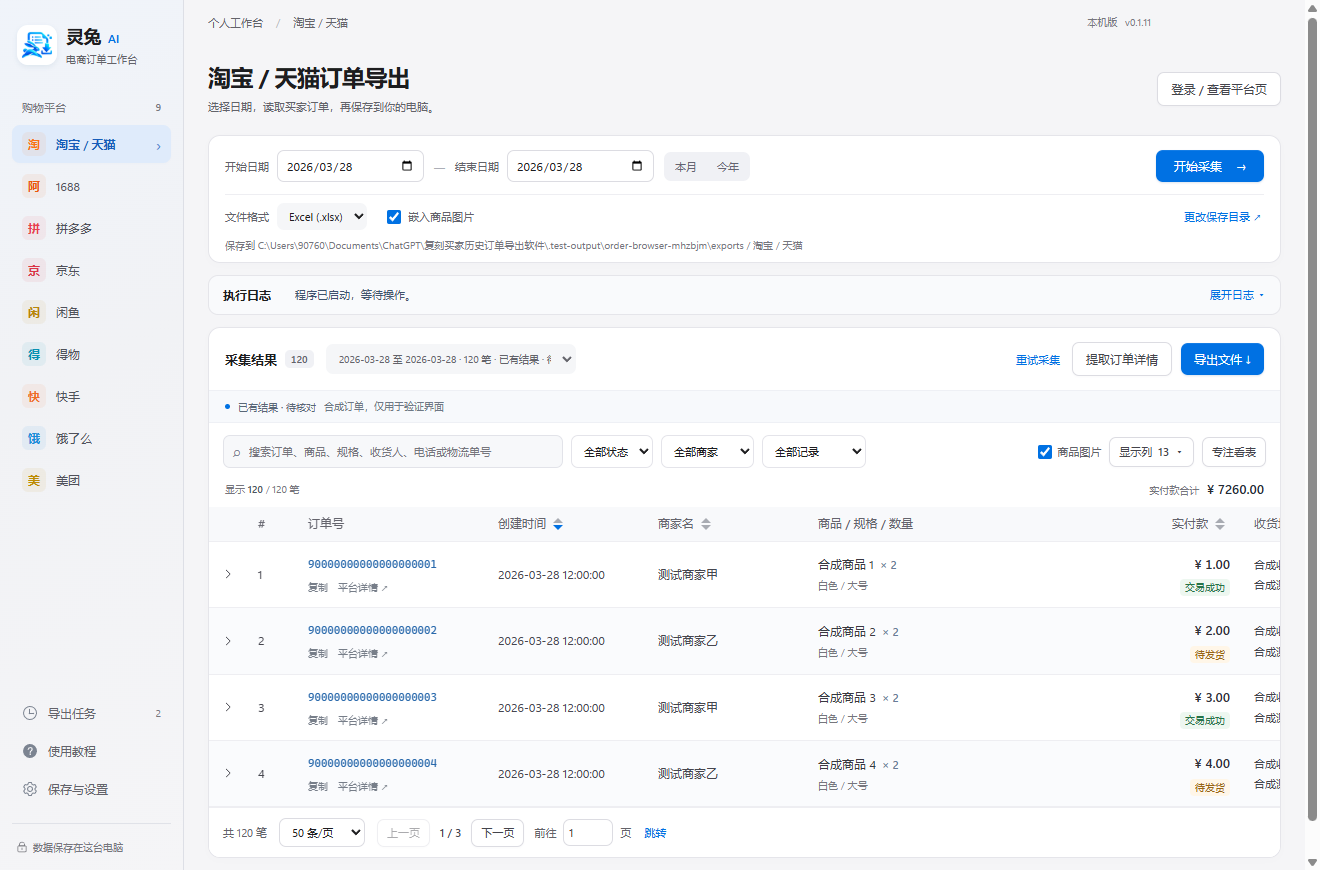
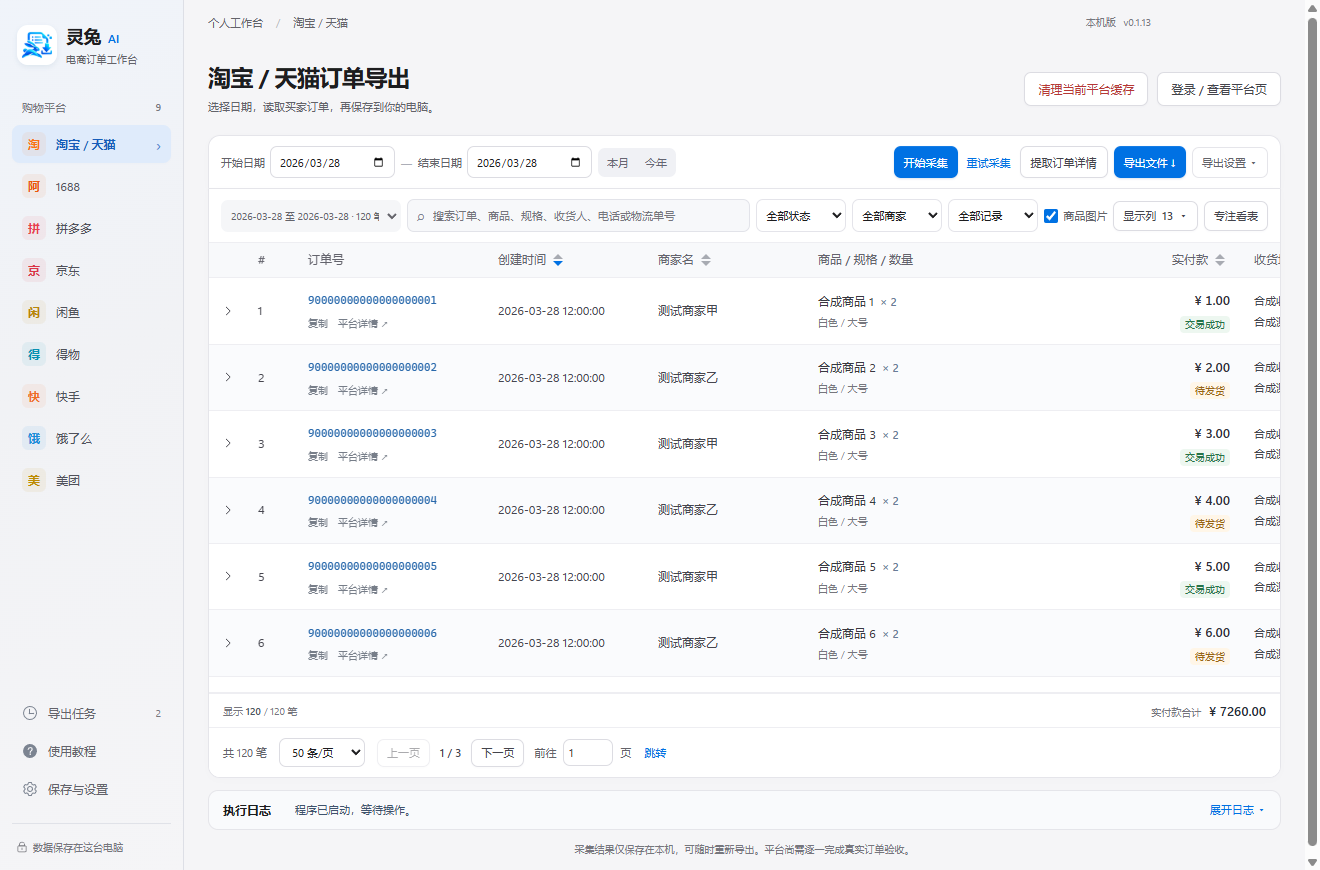
style: 将采集导出筛选合并为两行操作栏 v0.1.13

diff --git a/src/renderer/src/App.vue b/src/renderer/src/App.vue
@@ -63,20 +63,16 @@ onUnmounted(()=>{off?.();offUpdate?.()})
               <div class="button-row"><button class="secondary" :disabled="busy" @click="action(()=>desk.proxyStart(selected),'本机监听已开启，地址 127.0.0.1:17869。请完成下方证书与代理设置。')">开启辅助采集</button><button class="text-button" :disabled="!state?.proxy.running" @click="action(()=>desk.certificate())">打开本机证书</button><button class="text-button" @click="action(()=>desk.proxySettings())">打开代理设置</button></div>
               <details><summary>首次设置步骤与停止方式</summary><ol><li>开启辅助采集后，打开证书，在 Windows 中手动将其导入当前用户的受信任根证书。仅用于本机采集。</li><li>记下原来的代理设置，将手动代理临时设为 <code>127.0.0.1:17869</code>。当前程序尚不自动改动系统设置。</li><li>点击下方“开始采集”，再打开对应微信小程序的订单列表并向下翻页。</li><li>结束后先恢复原来的系统代理设置，再停止辅助采集或退出软件。</li></ol><button class="text-button" @click="action(()=>desk.proxyStop(),'本机监听已停止，请确认系统代理已恢复。')">停止辅助采集</button></details>
             </section>
-            <section class="config-card">
-              <div class="section-head"><h2>导出范围</h2><span>按下单日期 · 全部订单状态</span></div>
-              <div class="form-row"><label>开始日期<input v-model="from" type="date" :max="to"></label><span class="range-dash">—</span><label>结束日期<input v-model="to" type="date" :min="from"></label><div class="quick-date"><button @click="from=today.slice(0,7)+'-01';to=today">本月</button><button @click="from=today.slice(0,4)+'-01-01';to=today">今年</button></div><button class="primary start" :disabled="busy || task?.status==='running'" @click="start">{{task?.status==='running'?'正在采集…':'开始采集'}} <span>→</span></button></div>
-              <p class="date-hint">按订单的下单日期查询。历史订单请调整起止日期，或点击“今年”。</p>
-              <div class="config-bottom"><div><label class="inline-label">文件格式<select v-model="format"><option value="xlsx">Excel (.xlsx)</option><option value="csv">CSV (.csv)</option></select></label><label class="checkbox"><input v-model="images" type="checkbox" :disabled="format==='csv'">嵌入商品图片</label></div><button class="text-button" @click="choose">{{state?.outputDir?'更改保存目录':'选择保存目录'}} ↗</button></div>
-              <div v-if="state?.outputDir" class="folder-path" :title="state.outputDir">保存到 {{state.outputDir}} / {{platform?.name}}</div>
+            <section class="config-card compact-controls" aria-label="采集与导出操作">
+              <div class="form-row"><label>开始日期<input v-model="from" type="date" :max="to"></label><span class="range-dash">—</span><label>结束日期<input v-model="to" type="date" :min="from"></label><div class="quick-date"><button @click="from=today.slice(0,7)+'-01';to=today">本月</button><button @click="from=today.slice(0,4)+'-01-01';to=today">今年</button></div><div class="collection-actions"><button v-if="task?.status!=='running'" class="primary start" :disabled="busy" @click="start">开始采集</button><button class="secondary" v-if="task && task.status==='running'" @click="action(()=>desk.pause(taskId))">暂停</button><button class="secondary" v-if="task && ['paused','needs_login','failed'].includes(task.status)" @click="action(()=>desk.resume(taskId))">继续采集</button><button class="text-button" v-if="task && task.status==='partial'" :disabled="busy" @click="action(()=>desk.retry(taskId))">重试采集</button><button v-if="selected==='taobao'" class="secondary" :disabled="!records.length||busy||task?.status==='running'" @click="enrich">提取订单详情</button><button class="primary" :disabled="!records.length||busy||task?.status==='running'" title="导出本任务全部订单，表格筛选不改变导出范围" @click="exportFile">{{busy?'处理中…':'导出文件'}} ↓</button><button v-if="task?.status==='running'" class="text-button" @click="action(()=>desk.finish(taskId))">结束读取</button><details class="export-options"><summary>导出设置 ▾</summary><div class="export-options-panel"><label class="inline-label">文件格式<select v-model="format"><option value="xlsx">Excel (.xlsx)</option><option value="csv">CSV (.csv)</option></select></label><label class="checkbox"><input v-model="images" type="checkbox" :disabled="format==='csv'">嵌入商品图片</label><button class="text-button" @click="choose">{{state?.outputDir?'更改保存目录':'选择保存目录'}} ↗</button><p :title="state?.outputDir">{{state?.outputDir||'首次导出时选择保存目录'}}</p></div></details></div></div>
             </section>
-            <ExecutionLog v-if="state?.showExecutionLog" ref="executionPanel" :platform="selected" :compact="records.length>0&&task?.status!=='running'" />
-            <section class="results-card">
-              <div class="results-header"><div class="results-heading"><h2>采集结果 <span class="count">{{records.length}}</span></h2><select v-if="tasks.length" :value="taskId" aria-label="查看历史采集任务" :disabled="busy||task?.status==='running'" @change="chooseTask"><option v-for="t in tasks" :key="t.id" :value="t.id">{{t.from}} 至 {{t.to}} · {{t.count}} 笔 · {{labels[t.status]}}</option></select><p v-else>采集后，你的订单会显示在这里</p></div><div class="button-row"><button class="secondary" v-if="task && task.status==='running'" @click="action(()=>desk.pause(taskId))">暂停</button><button class="secondary" v-if="task && ['paused','needs_login','failed'].includes(task.status)" @click="action(()=>desk.resume(taskId))">继续采集</button><button class="text-button" v-if="task && task.status==='partial'" :disabled="busy" @click="action(()=>desk.retry(taskId))">重试采集</button><button v-if="selected==='taobao'" class="secondary" :disabled="!records.length||busy||task?.status==='running'" @click="enrich">提取订单详情</button><button class="primary" :disabled="!records.length||busy" title="导出本任务全部订单，表格筛选不改变导出范围" @click="exportFile">{{busy?'处理中…':'导出文件'}} ↓</button></div></div>
-              <div v-if="task" class="task-strip" :class="task.status"><span class="dot"></span><strong>{{labels[task.status]}}</strong><span>{{task.message}}</span><button v-if="task.status==='running'" @click="action(()=>desk.finish(taskId))">结束本次读取</button></div>
+            <section class="results-card compact-results">
+              <div v-if="!records.length" class="results-header"><h2>采集结果 <span class="count">{{records.length}}</span></h2><select v-if="tasks.length" :value="taskId" aria-label="查看历史采集任务" :disabled="busy||task?.status==='running'" @change="chooseTask"><option v-for="t in tasks" :key="t.id" :value="t.id">{{t.from}} 至 {{t.to}} · {{t.count}} 笔 · {{labels[t.status]}}</option></select></div>
+              <div v-if="task && ['failed','needs_login'].includes(task.status)" class="task-strip" :class="task.status"><span class="dot"></span><strong>{{labels[task.status]}}</strong><span>{{task.message}}</span></div>
               <div v-if="!records.length" class="empty-state"><div class="empty-icon"><svg viewBox="0 0 72 72" fill="none"><rect x="15" y="10" width="42" height="52" rx="8" stroke="currentColor" stroke-width="2"/><path d="M26 26h20M26 36h20M26 46h12" stroke="currentColor" stroke-width="2" stroke-linecap="round"/></svg></div><h3>{{emptyResult?'该日期范围内没有订单':task?.status==='running'?'正在读取订单':'还没有采集订单'}}</h3><p>{{emptyResult?`${task?.from} 至 ${task?.to} 已查询完毕，请选择订单实际的下单日期后重新采集。`:task?.status==='running'?'正在按所选日期查询，请留意上方执行日志。':task?.status==='needs_login'?'请在平台页完成登录或验证，再继续采集。':task?.status==='failed'?task.message:'选择订单下单日期后点击“开始采集”。'}}</p><div class="empty-note">每个平台独立登录 · 原软件数据保持原样</div></div>
-              <OrderTable v-else :orders="records" :platform="selected" :task-id="taskId" :busy="busy||task?.status==='running'" @open-order="openOrder" />
+              <OrderTable v-else :orders="records" :platform="selected" :task-id="taskId" :busy="busy||task?.status==='running'" @open-order="openOrder"><template #toolbar><div class="results-heading"><select :value="taskId" :title="task?.message" aria-label="查看历史采集任务" :disabled="busy||task?.status==='running'" @change="chooseTask"><option v-for="t in tasks" :key="t.id" :value="t.id">{{t.from}} 至 {{t.to}} · {{t.count}} 笔 · {{labels[t.status]}}</option></select></div></template></OrderTable>
             </section>
+            <ExecutionLog v-if="state?.showExecutionLog" ref="executionPanel" :platform="selected" :compact="task?.status!=='running'" />
             <div class="bottom-note">采集结果仅保存在本机，可随时重新导出。平台尚需逐一完成真实订单验收。</div>
           </template>
         </template>

diff --git a/src/renderer/src/OrderTable.vue b/src/renderer/src/OrderTable.vue
@@ -35,7 +35,7 @@ watch(()=>props.platform,loadPreferences,{immediate:true})
 </script>
 <template>
   <section class="order-browser" :class="{'table-focused':focused}" aria-label="订单数据表">
-    <div class="order-toolbar">
+    <div class="order-toolbar"><slot v-if="!focused" name="toolbar" />
       <div class="order-search"><span>⌕</span><input v-model="query" aria-label="搜索订单数据" placeholder="搜索订单、商品、规格、收货人、电话或物流单号"><button v-if="query" aria-label="清除搜索" @click="query=''">×</button></div>
       <select v-model="status" aria-label="订单状态筛选"><option value="">全部状态</option><option v-for="s in statuses" :key="s">{{s}}</option></select>
       <select v-model="shop" aria-label="商家筛选"><option value="">全部商家</option><option v-for="s in shops" :key="s">{{s}}</option></select>
@@ -43,8 +43,8 @@ watch(()=>props.platform,loadPreferences,{immediate:true})
       <button v-if="hasFilter" class="text-button" @click="reset">清空筛选</button>
       <div class="browser-view-tools"><label><input v-model="showImages" type="checkbox" @change="savePreferences">商品图片</label><div class="column-picker"><button class="secondary" :aria-expanded="columnMenu" @click="columnMenu=!columnMenu">显示列 <span>{{visibleColumns.length+1}}</span> ▾</button><div v-if="columnMenu" class="column-menu"><div class="column-menu-head"><strong>列表显示字段</strong><button @click="columnMenu=false" aria-label="关闭列设置">×</button></div><label><input type="checkbox" checked disabled>订单号（固定）</label><label v-for="c in orderColumns" :key="c.key"><input type="checkbox" :checked="visibleKeys.includes(c.key)" @change="toggleColumn(c.key)">{{c.label}}</label><button class="text-button" @click="restoreColumns">恢复默认列</button></div></div><button class="secondary" @click="focused=!focused">{{focused?'退出大表':'专注看表'}}</button></div>
     </div>
-    <div class="order-summary"><span>显示 <strong>{{filtered.length}}</strong> / {{orders.length}} 笔<span v-if="hasFilter" class="filter-note"> · 筛选仅影响浏览，导出仍包含本任务全部订单</span></span><span>实付款合计 <b>{{money(total)}}</b><small v-if="unknownAmounts">（另有 {{unknownAmounts}} 笔金额未获取）</small><span v-if="hint" class="copy-hint" role="status">{{hint}}</span></span></div>
-    <ElTable ref="table" :data="shown" row-key="id" stripe :height="focused?'calc(100vh - 204px)':'max(240px, calc(100vh - 570px))'" :default-sort="{prop:'createdAt',order:'descending'}" :show-overflow-tooltip="true" @sort-change="sort" class="orders-grid" empty-text="没有符合筛选条件的订单，可清空筛选后重试。">
+
+    <ElTable ref="table" :data="shown" row-key="id" stripe :height="focused?'calc(100vh - 204px)':'max(240px, calc(100vh - 420px))'" :default-sort="{prop:'createdAt',order:'descending'}" :show-overflow-tooltip="true" @sort-change="sort" class="orders-grid" empty-text="没有符合筛选条件的订单，可清空筛选后重试。">
       <!-- @vue-generic {Order} -->
       <ElTableColumn type="expand" width="38" fixed="left"><template #default="scope"><OrderDetail :order="scope.row" @copy="copy" /></template></ElTableColumn>
       <ElTableColumn type="index" label="#" width="50" fixed="left" :index="(index:number)=>(page-1)*pageSize+index+1" />
@@ -65,6 +65,7 @@ watch(()=>props.platform,loadPreferences,{immediate:true})
         </template>
       </ElTableColumn>
     </ElTable>
+    <div class="order-summary"><span>显示 <strong>{{filtered.length}}</strong> / {{orders.length}} 笔<span v-if="hasFilter" class="filter-note"> · 筛选仅影响浏览，导出仍包含本任务全部订单</span></span><span>实付款合计 <b>{{money(total)}}</b><small v-if="unknownAmounts">（另有 {{unknownAmounts}} 笔金额未获取）</small><span v-if="hint" class="copy-hint" role="status">{{hint}}</span></span></div>
     <div class="order-pagination"><span>共 {{filtered.length}} 笔 <select v-model.number="pageSize" aria-label="每页条数" @change="savePreferences"><option :value="20">20 条/页</option><option :value="50">50 条/页</option><option :value="100">100 条/页</option><option :value="200">200 条/页</option></select></span><div><button class="secondary" :disabled="page===1" @click="go(page-1)">上一页</button><strong>{{page}} / {{pageCount}}</strong><button class="secondary" :disabled="page===pageCount" @click="go(page+1)">下一页</button><label>前往 <input v-model.number="jump" type="number" aria-label="跳转页码" min="1" :max="pageCount" @keydown.enter="go(jump)"> 页</label><button class="text-button" @click="go(jump)">跳转</button></div><span class="table-help">点击订单号展开 · 拖动表头边界调整列宽 · 底部横向滚动查看更多</span></div>
   </section>
 </template>

diff --git a/src/renderer/src/style.css b/src/renderer/src/style.css
@@ -157,3 +157,21 @@ h2{font-size:13px;font-weight:600}
 .guide-steps li b{color:#363640;font-weight:600}
 @media(max-width:1200px){.content{padding-inline:18px}.results-heading select{max-width:235px}.results-header{gap:8px;padding-inline:12px}.button-row{gap:6px}.results-header .primary,.results-header .secondary{padding-inline:10px}}
 @media(prefers-reduced-motion:reduce){*,*::before,*::after{transition:none!important;scroll-behavior:auto!important}}
+
+.compact-controls{padding:10px 12px;margin-bottom:0;border-radius:12px 12px 0 0;border-bottom:0}
+.compact-controls .form-row{gap:6px;flex-wrap:nowrap}
+.compact-controls .form-row>label{gap:5px}
+.compact-controls .form-row input{width:125px;font-size:11px}
+.compact-controls .quick-date button{padding-inline:7px}
+.collection-actions{display:flex;align-items:center;gap:6px;margin-left:auto;white-space:nowrap}
+.collection-actions .primary,.collection-actions .secondary{font-size:11px;padding:7px 10px;min-width:0;min-height:32px}
+.collection-actions .start{margin-left:0}
+.export-options{position:relative;font-size:11px;color:var(--secondary)}
+.export-options summary{cursor:pointer;list-style:none;padding:7px 9px;border:1px solid var(--line);border-radius:7px;background:white;white-space:nowrap}
+.export-options-panel{position:absolute;right:0;top:calc(100% + 8px);width:280px;z-index:30;padding:16px;display:grid;gap:14px;background:white;border:1px solid var(--line);border-radius:12px;box-shadow:0 12px 38px #18284924;white-space:normal}
+.export-options-panel p{font-size:10px;color:var(--muted);overflow-wrap:anywhere;line-height:1.7}
+.export-options-panel .text-button{text-align:left}
+.compact-results{border-radius:0 0 12px 12px}
+.compact-results>.results-header{padding:10px 12px;justify-content:flex-start}
+.compact-results>.results-header select{font-size:11px;max-width:300px}
+@media(max-width:1200px){.compact-controls .form-row>label{font-size:10px;gap:3px}.compact-controls .form-row input{width:114px;padding-inline:4px}.collection-actions{gap:4px}.collection-actions .primary,.collection-actions .secondary{padding-inline:7px}.compact-controls .quick-date button{padding-inline:5px}}

diff --git a/src/renderer/src/order-browser.css b/src/renderer/src/order-browser.css
@@ -94,3 +94,15 @@
 .extra-fields dl{grid-template-columns:150px minmax(0,1fr);padding:14px;background:#fff;border:1px solid #e1e7f0;border-radius:8px;margin-top:10px}
 .detail-missing{font-size:10px;color:#6e7888;background:#eef3fa;padding:9px 11px;margin-top:16px;border-radius:6px}
 @media(max-width:1450px){.detail-grid{grid-template-columns:1fr 1fr;gap:20px 35px}.table-help{display:none}.results-heading select{max-width:250px}.order-toolbar>select{max-width:130px}.order-search{max-width:340px;min-width:230px}}
+
+/* Two compact operation rows above the table. */
+.compact-results .order-toolbar{flex-wrap:nowrap;padding:10px 12px;gap:6px;border-bottom:1px solid var(--line-soft)}
+.compact-results .order-search{min-width:120px;max-width:none;flex:1}
+.compact-results .order-toolbar>select{width:90px;min-width:0;padding-inline:5px}
+.compact-results .results-heading{flex:0 1 180px;min-width:110px}
+.compact-results .results-heading select{width:100%;max-width:100%;min-width:0;font-size:10px;padding:7px 5px}
+.compact-results .browser-view-tools{gap:6px;flex-shrink:0}
+.compact-results .order-toolbar>.text-button{white-space:nowrap;font-size:10px}
+.compact-results .column-menu{top:calc(100% + 8px);bottom:auto}
+.compact-results .order-summary{padding:8px 14px;border-top:1px solid var(--line-soft)}
+@media(max-width:1200px){.compact-results .results-heading{flex-basis:125px}.compact-results .order-toolbar>select{width:78px}.compact-results .browser-view-tools{gap:4px}.compact-results .browser-view-tools .secondary{padding-inline:5px}.compact-results .order-search{min-width:100px}}

diff --git a/README.md b/README.md
@@ -1,6 +1,6 @@
 # 灵兔 AI 电商平台买家订单导出工具
 
-Windows 本机电商平台买家订单导出工具（五成）。当前为 **0.1.12 开发验证版**，尚未完成真实账号的逐平台验收。
+Windows 本机电商平台买家订单导出工具（五成）。当前为 **0.1.13 开发验证版**，尚未完成真实账号的逐平台验收。
 
 ## 软件截图
 
@@ -24,7 +24,7 @@ Windows 本机电商平台买家订单导出工具（五成）。当前为 **0.1
 
 ## 使用
 
-1. 运行 `release/LingtuOrderExport-0.1.12-Setup.exe`，安装后打开桌面的“灵兔 AI 电商平台买家订单导出工具”。
+1. 运行 `release/LingtuOrderExport-0.1.13-Setup.exe`，安装后打开桌面的“灵兔 AI 电商平台买家订单导出工具”。
 2. 选择平台，点击“登录 / 查看平台页”，在官方页面自行登录。
 3. 返回导出台，按订单的下单时间选择起止日期，开始采集。历史订单需调整日期或点击“今年”；日期范围内没有订单时会明确提示，重启后恢复最近的淘宝任务及日期。
 4. 在订单表查看商品、规格、数量、金额、收货、物流、付款时间、备注和售后。点击订单号展开全部详情；用“显示列”选择额外字段，“专注看表”打开大表，底部可横向滚动、分页。
@@ -50,6 +50,8 @@ Windows 本机电商平台买家订单导出工具（五成）。当前为 **0.1
 - 0.1.11 统一为 Logo 蓝色、冷白与浅灰的界面，缩小品牌区、统一导航图标与圆角控件，表格采用轻分隔线，日志改为浅色面板；融合 Windows 原生窗口按钮，保留拖动、最小化、最大化和关闭。见 [界面风格](docs/界面风格.md)。
 
 - 0.1.12 将清理缓存入口移动到每个平台页面右上角，清理前确认当前平台，取消保持数据，确认后立即刷新列表。
+
+- 0.1.13 将采集、导出与筛选操作整合为两行；格式、图片与目录合并到“导出设置”，日志放到表格下方，增加订单显示空间。
 
 ## 关于与更新
 

diff --git a/docs/验证记录.md b/docs/验证记录.md
@@ -1,3 +1,14 @@
+# 0.1.13 两行操作栏
+
+日期：2026-10-15。本次为本机更新。
+
+- 第一行合并日期、采集、详情与导出操作；第二行合并历史任务、搜索、筛选和显示列。文件格式、嵌入图片与目录设置收进“导出设置”。
+- 日志移至表格下方，空闲时收起、执行时展开；失败与登录验证提示继续显示在上方。金额合计移至表格底部，常态表格高度增加 150 px。
+- 生产构建及 `order-browser-smoke.mjs`、`desktop-smoke.mjs`、`execution-smoke.mjs` 通过。测试随新的菜单与状态显示位置更新，保留原有导出、分页、筛选、详情中断继续和执行日志断言。
+- 合成数据检查 1320×870 和 1120×740 窗口：操作栏均为两行，开启筛选后也不溢出；菜单展开正常。普通窗口分页底部 777 px。截图和结果位于 `.test-output/theme-0.1.13/`。
+
+- 安装退出码 0；运行时版本 0.1.13，安装与构建 ASAR 相同。安装后复核两行操作栏、设置开关、分页布局；升级前后 4 个任务、16 笔订单及设置摘要完全一致。
+
 # 0.1.12 平台页面清理入口
 
 日期：2026-10-15。本次为本机更新。
